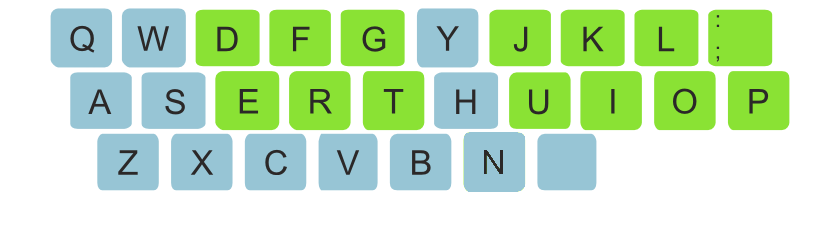
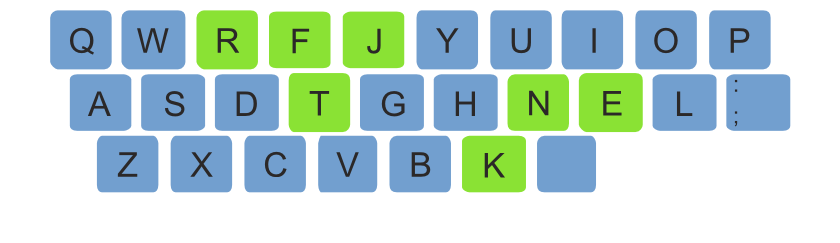
Minimak 2.0

diff --git a/pages/index.md b/pages/index.md
@@ -8,36 +8,50 @@ rows:
     body: |
       <h1>Minimak - Minimum Effort, Maximum Efficiency</h1>
 
+      <p>What happened to Minimak?</p>
+
+      <p>Minimak went through a minor revision, and then was given some
+      time for dissemination.  During that time, I worked on a more full
+      layout remapping for my personal use.</p>
+
+      <p>Surprisingly, the result of that experimentation was not a 
+      better remapping of the entire keyboard.  Instead,
+      I just got a better understanding of what really makes a difference
+      and what doesn't.</p>
+      
+      <p>Ironically, I determined that QWERTY <em>
+      really isn't all that bad</em>, it just gets one or two things very
+      wrong.  As a result, I found that you don't actually have to
+      remap your entire keyboard to get the best advantages of the popular
+      layout alternatives today.  You just have to fix the issues with
+      QWERTY with some judicious tweaking.</p>
+      
+      <p>The result is a new Minimak, more
+      intelligently laid out and with far fewer key changes.  That means
+      it's also far easier to learn and more easily maintained along
+      with regular QWERTY skills.</p>
+
+      <p>Of course, it bears little resemblance to the former Minimak
+      design, so much of what was discussed on the site before is
+      in the process of being updated.  I apologize to anyone who is
+      disappointed with the new materials, as they are replacing the
+      old ones.  The old ones are no longer available as they are clearly
+      superseded by the new design.  Thanks for your understanding and
+      I hope you are interested enough to give the new design a try.</p>
+
       <p>Minimak is a keyboard layout.
          Minimak presents the most efficient layout that can be had
           while changing as little as possible from what you already know.</p>
           
-          <p>It delivers a whopping <em>41% increase</em> in home row usage.  That reduction in finger
-          movement translates into greater typing economy.</p>
-
-      <p>Minimak is different in design from almost every other
-      keyboard layout.  The difference lies in its three primary benefits:</p>
   - columns:
       - class: layout-item-3
         width: 33%
         body: |
           <h1>learn faster</h1>
 
-          <p>Minimak changes only 15 of the 27 keys on the keyboard.
+          <p>Minimak changes only 7 of the 27 keys on the keyboard.
           They can be seen in green in the layout above.</p>
           
-          <p>Almost half of the keys on the keyboard <em>don't need to be relearned</em>.</p>
-          
-          <p>Minimak also keeps changed keys on the same finger, just
-          in a different row, so all of your finger impulses are
-          already correct.</p>
-
-          <p><em>Your finger impulses only need to be adjusted to a different
-          row, not thrown away.</em></p>
-
-          <p>Minimak is the only keyboard layout to use this unique learning
-          acceleraton technique.</p>
-
           <p>
           It's also Control-key friendly. The majority of
           frequently-used command combinations are unchanged.</p>
@@ -45,28 +59,7 @@ rows:
       - class: layout-item-2
         width: 34%
         body: |
-          <h1>at your pace</h1>
-
-          <p>There are no key swaps between hands in Minimak, which means you don't have to
-          learn the layout all at once.</p>
-          
-          <p>You can learn Minimak
-          <em>one hand at a time.</em></p>
-
-          <p>With Minimak, you just start with the left hand and
-          wait to train the right until you're ready.</p>
-          
-          <p>This approach means
-          you <em>learn faster</em>, are <em>more productive</em> and <em>less likely to
-          give up.</em></p>
-
-          <p>Because you are limiting the number of changes your brain
-          has to deal with at a time, your noggin is better able to integrate
-          the new layout.</p>
-
-          <p>You end up learning Minimak faster by splitting it up into
-          digestible chunks than you would by changing everything at once.  Minimak
-          is the only layout designed with this in mind.</p>
+          <p>&nbsp;</p>
       - class: layout-item-3
         width: 33%
         body: |

diff --git a/pages/download.md b/pages/download.md
@@ -10,7 +10,7 @@ facility is the place to start, at least on Linux.
 
 There are a number of ways to use Minimak on Windows, including:
 
-  - Easily switch between the half and full Minimak layouts with [Portable
+  - Easily switch between QWERTY and Minimak layouts with [Portable
 Key Layout](#pkl) - **Recommended**
 
   - Create your own customized version of Minimak with the [Microsoft
@@ -103,12 +103,8 @@ PKL is by FARKAS Máté and is distributed under GPL 3.
 
 PKL is the recommended tool while you're learning Minimak.  PKL shows
 you a keyboard image with the new layout, so you can consult it while
-you learn.  It also supports switching layouts easily via menu, as well
-as suspending PKL entirely by hitting both *Alt* keys.
-
-PKL starts in full Minimak mode (both hands). There is a system tray
-icon that can be right-clicked for a menu that includes the ability to
-select the left-hand-only half-Minimak.
+you learn.  It also supports
+suspending PKL entirely by hitting both *Alt* keys.
 
 The keyboard graphic that is shown by PKL can be moved to one of two
 predetermined positions by floating your mouse over it.  It can also be
@@ -225,11 +221,10 @@ XP or above.
 
 You can download boot mappings that work for any Windows system from
 [github](https://github.com/downloads/lilleyt/minimak/registry_mappings.zip).
-There are three versions in the zip:
+There are two versions in the zip:
 
-  * Minimak-l - left-hand only
-  * Minimak - both hands
-  * Minimak + BacksLock - full Minimak with *CapsLock* mapped to *Backspace*
+  * Minimak - Regular version
+  * Minimak + BacksLock - Minimak with *CapsLock* mapped to *Backspace*
 
 To install any of them, unzip the download and double-click the mapping
 you want.  Windows will ask you if you want to load the file into the
@@ -318,16 +313,15 @@ still available from PC World.  The demo features the first arcade level.
 Note on VIM
 ===========
 
-While many of the keys with which [VIM](http://www.vim.org/) users are familiar have changed
-with Minimak, the good news is that a number of the related ones are in
-the same relative positions.  For example, the J, K and L buttons have
-been moved together to the top row (H, however, remains in the same
-location).
+While some of the keys with which [VIM](http://www.vim.org/) users are familiar have changed
+with Minimak, the good news is that most are unchanged.  However, you'll
+want to remap the functionality of the J and K keys to N and E respectively.
+That means you'll probably want to map N to K as well.
 
 While there is definitely relearning to be done when it comes to using
 Minimak with VIM, there is a good argument to be made that Minimak is
 *the* VIM-friendliest of the popular layouts today, due to the smallest
-number of remappings and finger-impulse retention.
+number of remappings.
 
 Keyboard Lettering
 ==================
